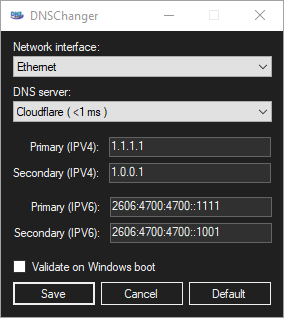
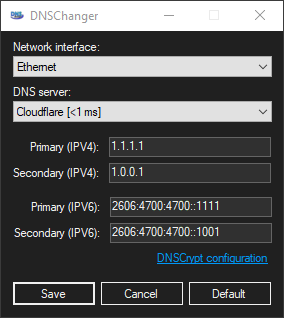
Version 2

Changed region(s): [[0.0, 0.0, 1.0, 1.0], [0.2254, 0.3396, 0.3944, 0.3679]]

diff --git a/DNSChanger/Properties/AssemblyInfo.cs b/DNSChanger/Properties/AssemblyInfo.cs
@@ -32,5 +32,5 @@ using System.Runtime.InteropServices;
 // You can specify all the values or you can default the Build and Revision Numbers
 // by using the '*' as shown below:
 // [assembly: AssemblyVersion("1.0.*")]
-[assembly: AssemblyVersion("1.0.0.0")]
-[assembly: AssemblyFileVersion("1.0.0.0")]
+[assembly: AssemblyVersion("2.0.0.0")]
+[assembly: AssemblyFileVersion("2.0.0.0")]

diff --git a/README.md b/README.md
@@ -1,33 +1,75 @@
-# DNSChanger
+# ![DNSChanger small logo](https://raw.githubusercontent.com/Zaczero/DNSChanger/master/icon/dnsc_small.png) DNSChanger
 
-The ultimate Windows DNS changer tool (using netsh).  
-Find the fastest DNS servers and use them in just few mouse clicks!
+![release](https://img.shields.io/github/release/Zaczero/DNSChanger.svg)
+![license](https://img.shields.io/github/license/Zaczero/DNSChanger.svg)
 
-![Zaczero/DNSChanger UI showcase](https://github.com/Zaczero/DNSChanger/blob/master/resources/showcase.png)
-![Zaczero/DNSChanger UI showcase - DNS change detected](https://github.com/Zaczero/DNSChanger/blob/master/resources/showcase_change.png)
+The ultimate Windows DNS changer tool (with DNSCrypt).  
+Private and secure DNS is just a few mouse clicks away.
 
-Have you ever wondered how much time you can save just by changing the DNS servers? Let's say that you can save ~30ms per request. You typically send around 2000 of them per day.
+![Zaczero/DNSChanger UI showcase](https://raw.githubusercontent.com/Zaczero/DNSChanger/master/resources/showcase_dark.png)
 
-`0.03s. x 2000 x 365 days = 21900s.`
+Learn more about DNSCrypt @ [www.dnscrypt.org](https://www.dnscrypt.org/)
 
-You are going to save even 6 hours per year!
+## 🌤 Installation
 
-## Features
+[Browse latest GitHub release](https://github.com/Zaczero/DNSChanger/releases/latest)
 
+## 🎡 Features
+
+* DNSCrypt support
+* DNS-over-HTTPS (DoH) support - *using DNSCrypt*
 * DNS latency checker
-* Network interface selector
-* Set Cloudflare, Google or OpenDNS DNS
-* Set custom DNS
-* Reset to ISP's default DNS
-* DNS validation on Windows boot
-* Native IPv4 + IPv6 support using netsh
-* Windows 10 theme sync
-* Completely open-source
+* Per network interface configuration
+* Easy reset to ISP's default DNS
+* Out of the box IPv4 & IPv6 support
+* Windows 10 theme synchronization
+* 100% Open-Source *- including 3rd party libraries*
 
-### Dark mode preview (Windows 10)
+### Built-in DNS server list
 
-![Zaczero/DNSChanger UI showcase](https://github.com/Zaczero/DNSChanger/blob/master/resources/showcase_dark.png)
+Save some time by using one of the built-in DNS servers.  
+Those are optional as you can always set a custom DNS server with an ease.
 
-## Download
+* DNSCrypt *- via localhost*
+* Cloudflare
+* Google
+* AdGuard
+* CZ.NIC
+* NextDNS
+* OpenDNS
+* Quad9
 
-* https://github.com/Zaczero/DNSChanger/releases/latest
+### Getting started with DNSCrypt (in 30 seconds)
+
+1. Start the app & open **DNSCrypt configuration**
+2. Click **[Download and install]**
+3. *(optional)* Edit configuration to your will
+4. Click **[Start service]** and wait a few seconds
+5. Close the window and wait for DNSChanger to restart
+6. From the list select your network interface
+7. Choose DNSCrypt from the DNS server list and click **[Save]**
+
+Finally, validate your configuration using [DNS leak test](https://www.dnsleaktest.com/).
+
+## 🚗 Requirements
+
+* .NET Framework 4.7.2 *or newer*
+
+## Footer
+
+### 📧 Contact
+
+* Email: [kamil@monicz.pl](mailto:kamil@monicz.pl)
+* PGP: [0x9D7BC5B97BB0A707](https://gist.github.com/Zaczero/158da01bfd5b6d236f2b8ceb62dd9698)
+
+### 📃 License
+
+* [Zaczero/DNSChanger](https://github.com/Zaczero/DNSCrypt/blob/master/LICENSE)
+* [DNSCrypt/dnscrypt-proxy](https://github.com/DNSCrypt/dnscrypt-proxy/blob/master/LICENSE)
+* [dotnet/corefx](https://github.com/dotnet/corefx/blob/master/LICENSE.TXT)
+* [Fody/Fody](https://github.com/Fody/Fody/blob/master/License.txt)
+* [Fody/Costura](https://github.com/Fody/Costura/blob/develop/LICENSE)
+* [getsentry/sentry-dotnet](https://github.com/getsentry/sentry-dotnet/blob/main/LICENSE)
+* [getsentry/sentry-dotnet-platform-abstractions](https://github.com/getsentry/sentry-dotnet-platform-abstractions/blob/master/LICENSE)
+* [JamesNK/Newtonsoft.Json](https://github.com/JamesNK/Newtonsoft.Json/blob/master/LICENSE.md)
+* [MichaCo/DnsClient.NET](https://github.com/MichaCo/DnsClient.NET/blob/dev/LICENSE)
